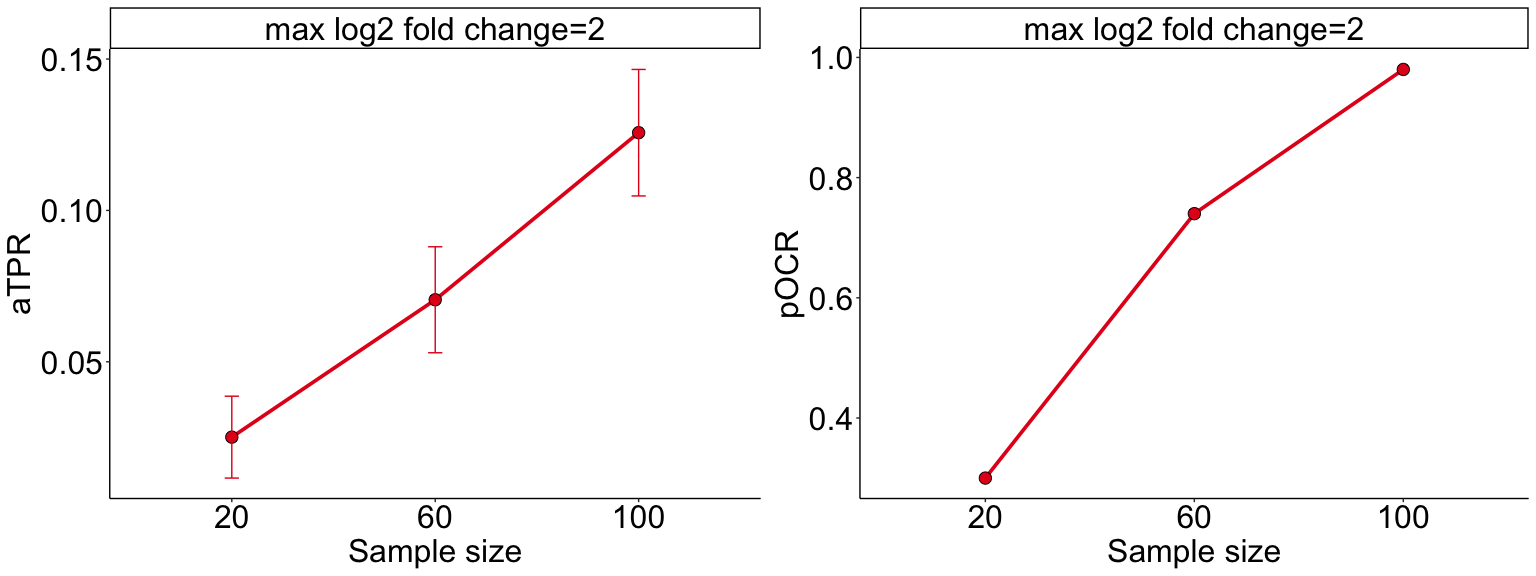
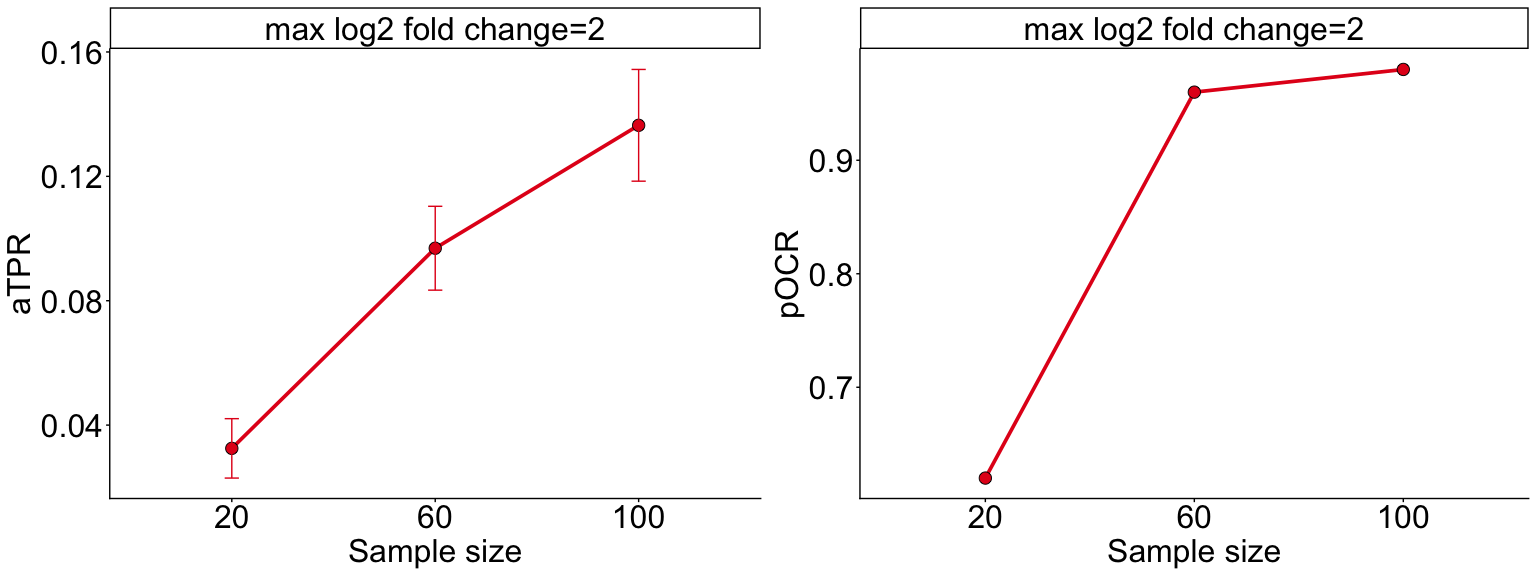
revision1

diff --git a/README.md b/README.md
@@ -95,7 +95,7 @@ res1 <- mPower(feature.dat = feature.dat, model.paras = model.paras,
                iters = 500, alpha = 0.05, distance = 'BC',
                diff.otu.pct = 0.1, 
                covariate.eff.min = 0, covariate.eff.maxs = 2,
-               diff.otu.direct = 'balanced',diff.otu.mode = 'random',
+               diff.otu.direct = 'balanced',diff.otu.mode = 1,
                confounder = 'no', depth.mu = 10000, depth.sd = 4000, verbose = F)
 ```
 
@@ -112,9 +112,9 @@ knitr::kable(res1$power, format = "markdown")
 
 | Sample size | max log2 fold change | power |
 |:------------|:---------------------|------:|
-| 20          | 2                    | 0.442 |
-| 60          | 2                    | 0.820 |
-| 100         | 2                    | 0.928 |
+| 20          | 2                    | 0.748 |
+| 60          | 2                    | 0.984 |
+| 100         | 2                    | 0.998 |
 
 #### 2.1.2 Output2: $R^2$ (variance explained) and community-level power curve
 
@@ -134,7 +134,7 @@ res2 <- mPower(feature.dat = feature.dat, model.paras = model.paras,
                test = 'Taxa', design = 'CaseControl',
                nSams = c(20, 60, 100), grp.ratio = 0.5,
                iters = 50, alpha = 0.05, distance = 'BC',
-               diff.otu.pct = 0.1, diff.otu.direct = 'balanced',diff.otu.mode = 'random',
+               diff.otu.pct = 0.1, diff.otu.direct = 'balanced',diff.otu.mode = 1,
                covariate.eff.min = 0, covariate.eff.maxs = 2,
                prev.filter = 0.1, max.abund.filter = 0.002,
                confounder = 'yes', depth.mu = 100000, depth.sd = 4000, verbose = F)
@@ -153,9 +153,9 @@ knitr::kable(res2$aTPR, format = "markdown")
 
 | Sample size | max log2 fold change |      aTPR |
 |:------------|:---------------------|----------:|
-| 20          | 2                    | 0.0251155 |
-| 60          | 2                    | 0.0704865 |
-| 100         | 2                    | 0.1256735 |
+| 20          | 2                    | 0.0325159 |
+| 60          | 2                    | 0.0968829 |
+| 100         | 2                    | 0.1364140 |
 
 #### 2.2.2 Output1: Taxa-level power table - pOCR
 
@@ -169,8 +169,8 @@ knitr::kable(res2$pOCR, format = "markdown")
 
 | Sample size | max log2 fold change | pOCR |
 |:------------|:---------------------|-----:|
-| 20          | 2                    | 0.30 |
-| 60          | 2                    | 0.74 |
+| 20          | 2                    | 0.62 |
+| 60          | 2                    | 0.96 |
 | 100         | 2                    | 0.98 |
 
 #### 2.2.3 Output3: aTPR power curve(left) and pOCR power curve(right)
